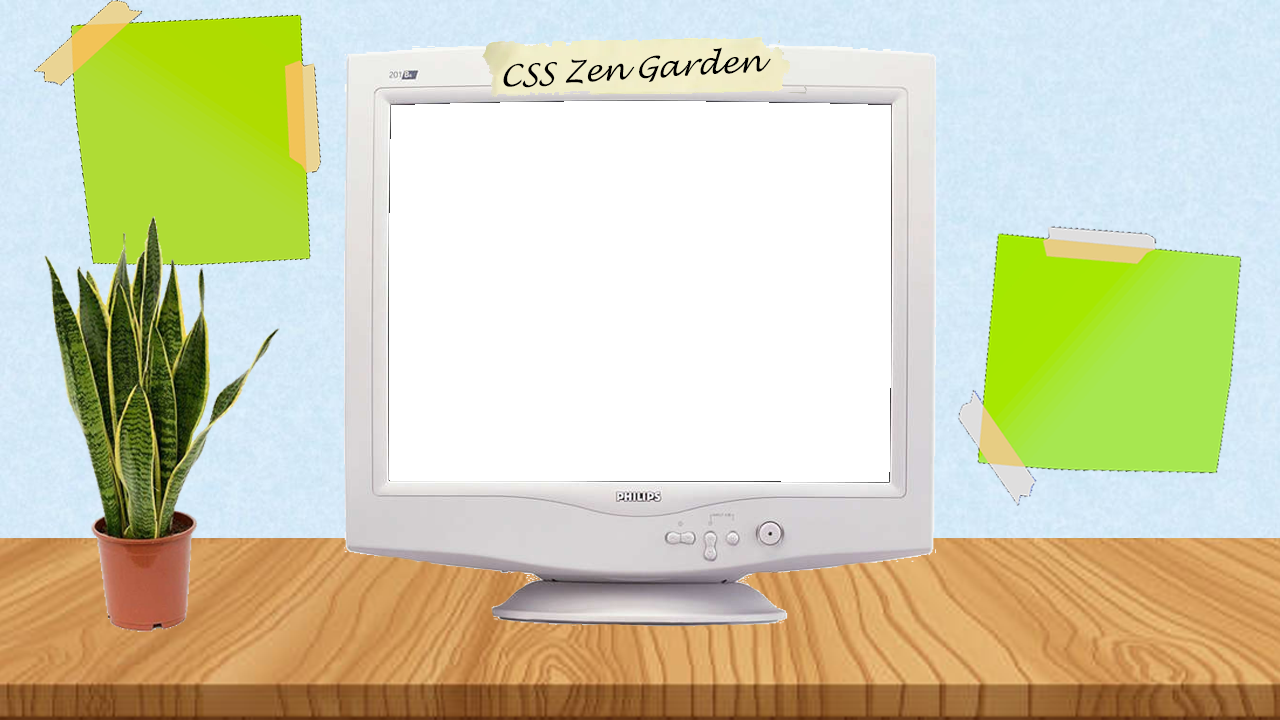
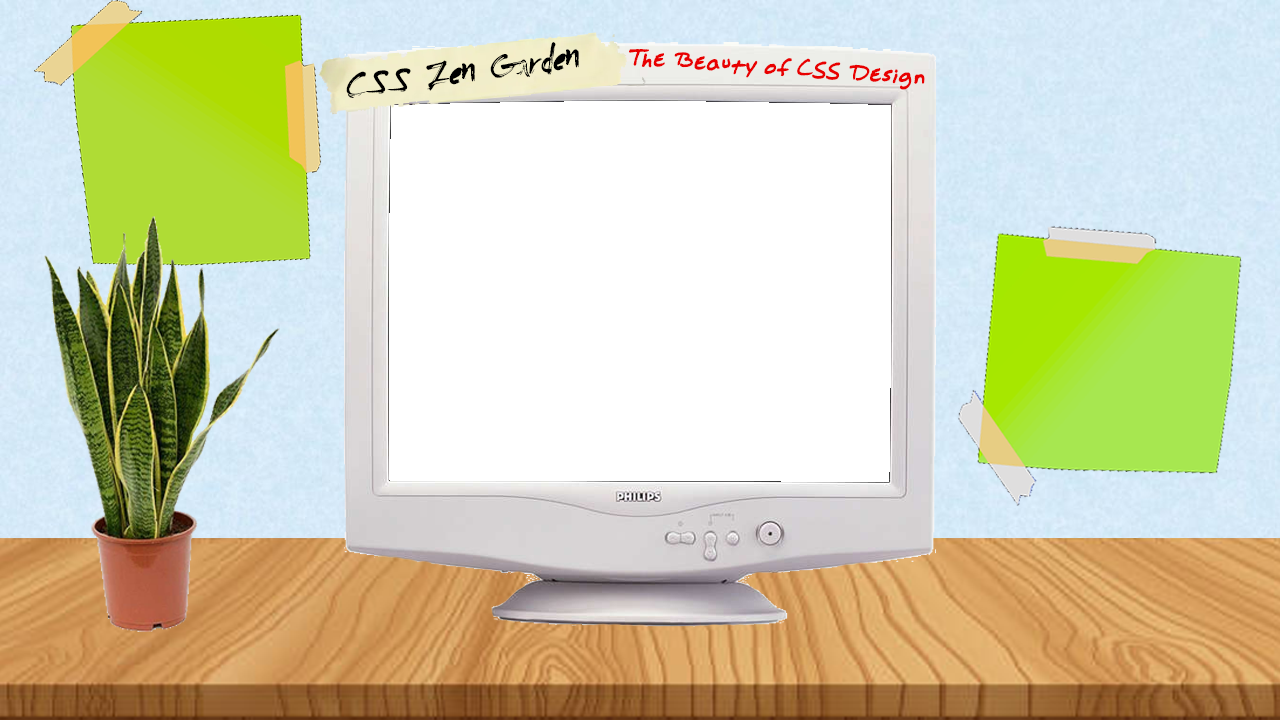
Positioned design list to fit on stickynote

Changed region(s): [[0.25, 0.0306, 0.7188, 0.1528]]

diff --git a/style.css b/style.css
@@ -56,3 +56,16 @@ a {
     width: 0 !important 
 }
 
+.select, .design-selection, .design-archives, .archives .design-selection a {
+    font-family: 'Just Me Again Down Here', cursive; 
+    color: black;
+} 
+
+
+.design-selection {
+    position: fixed;
+    top: 25px;
+    left: 140px;
+    font-size: 1.3em !important;
+    transform: rotate(-5deg);
+}
